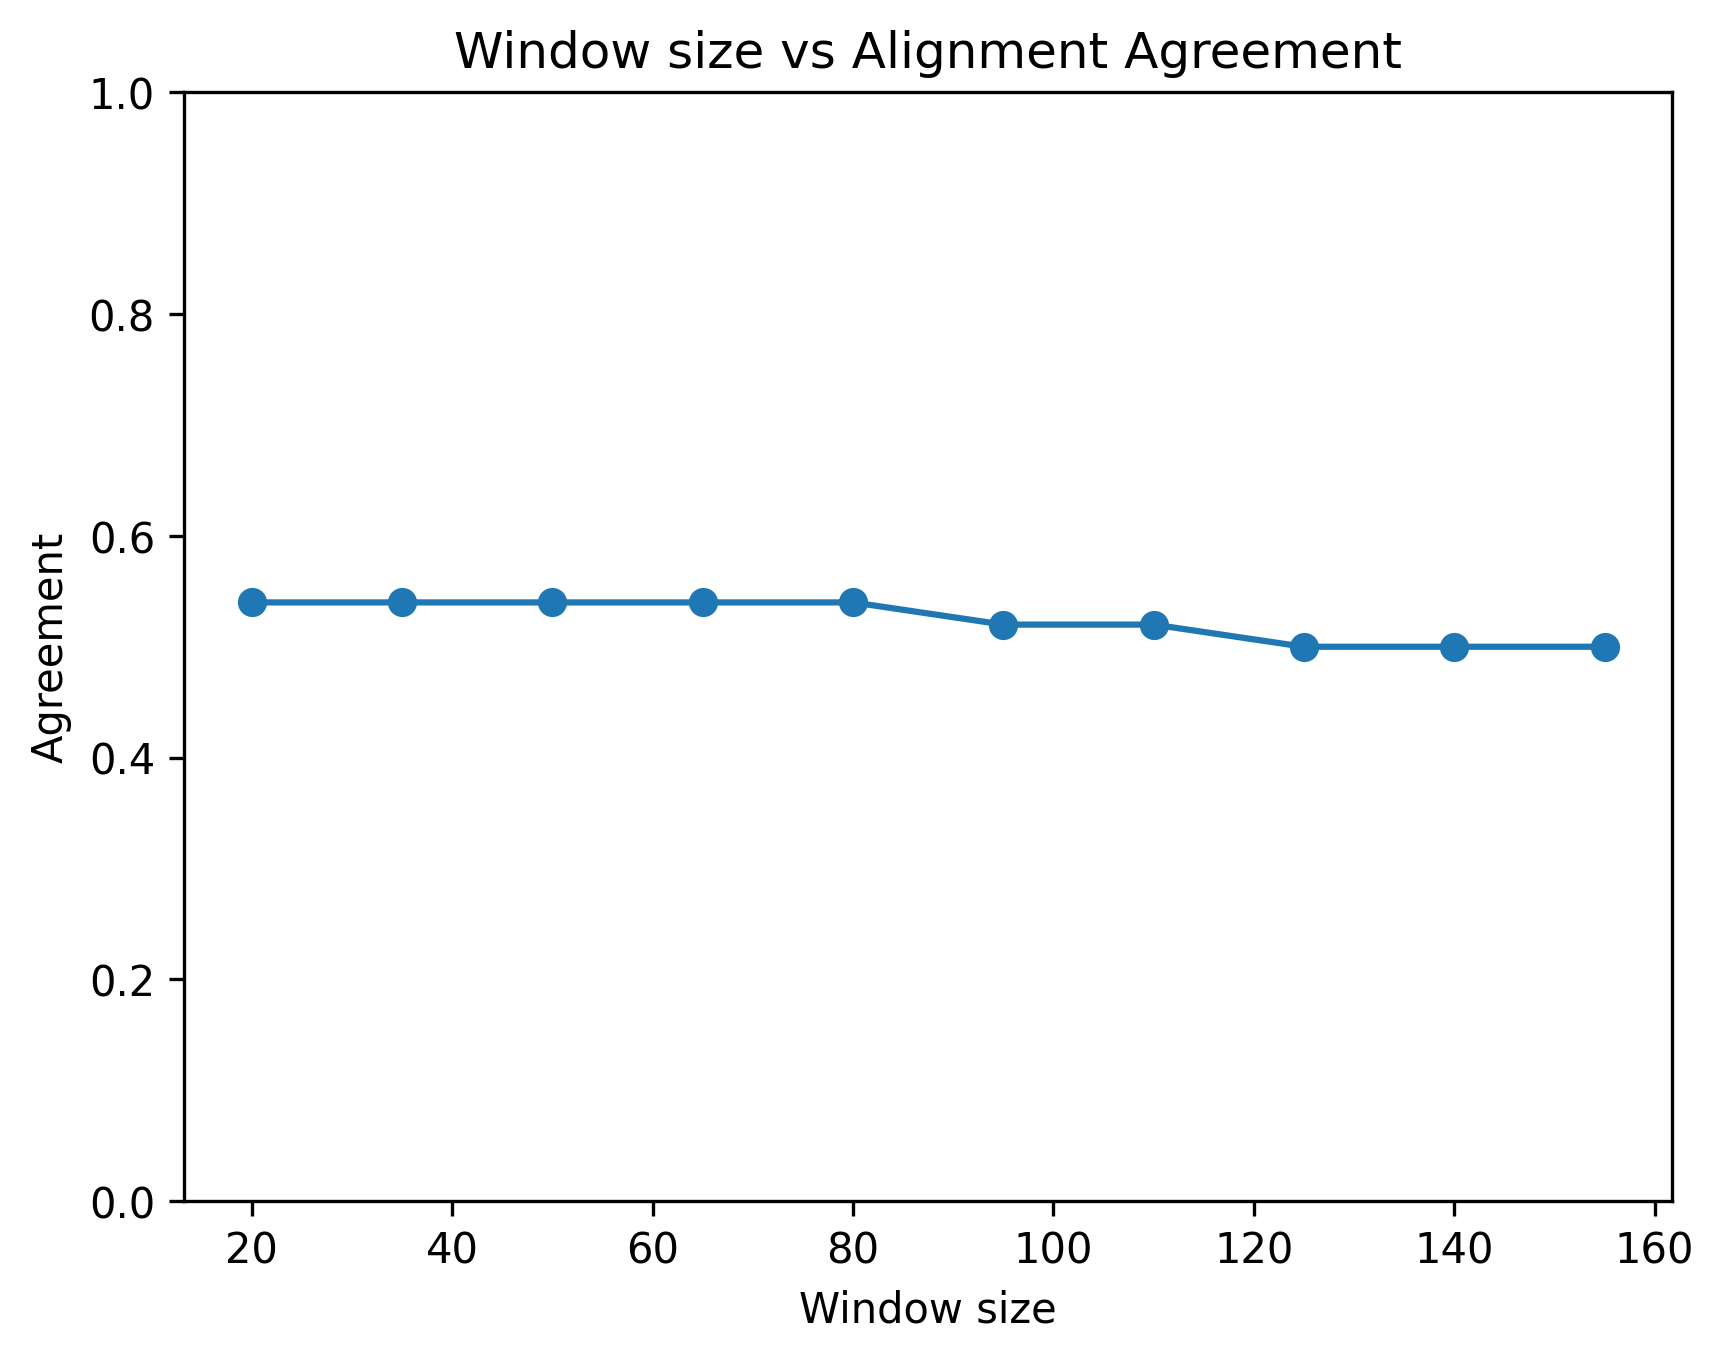
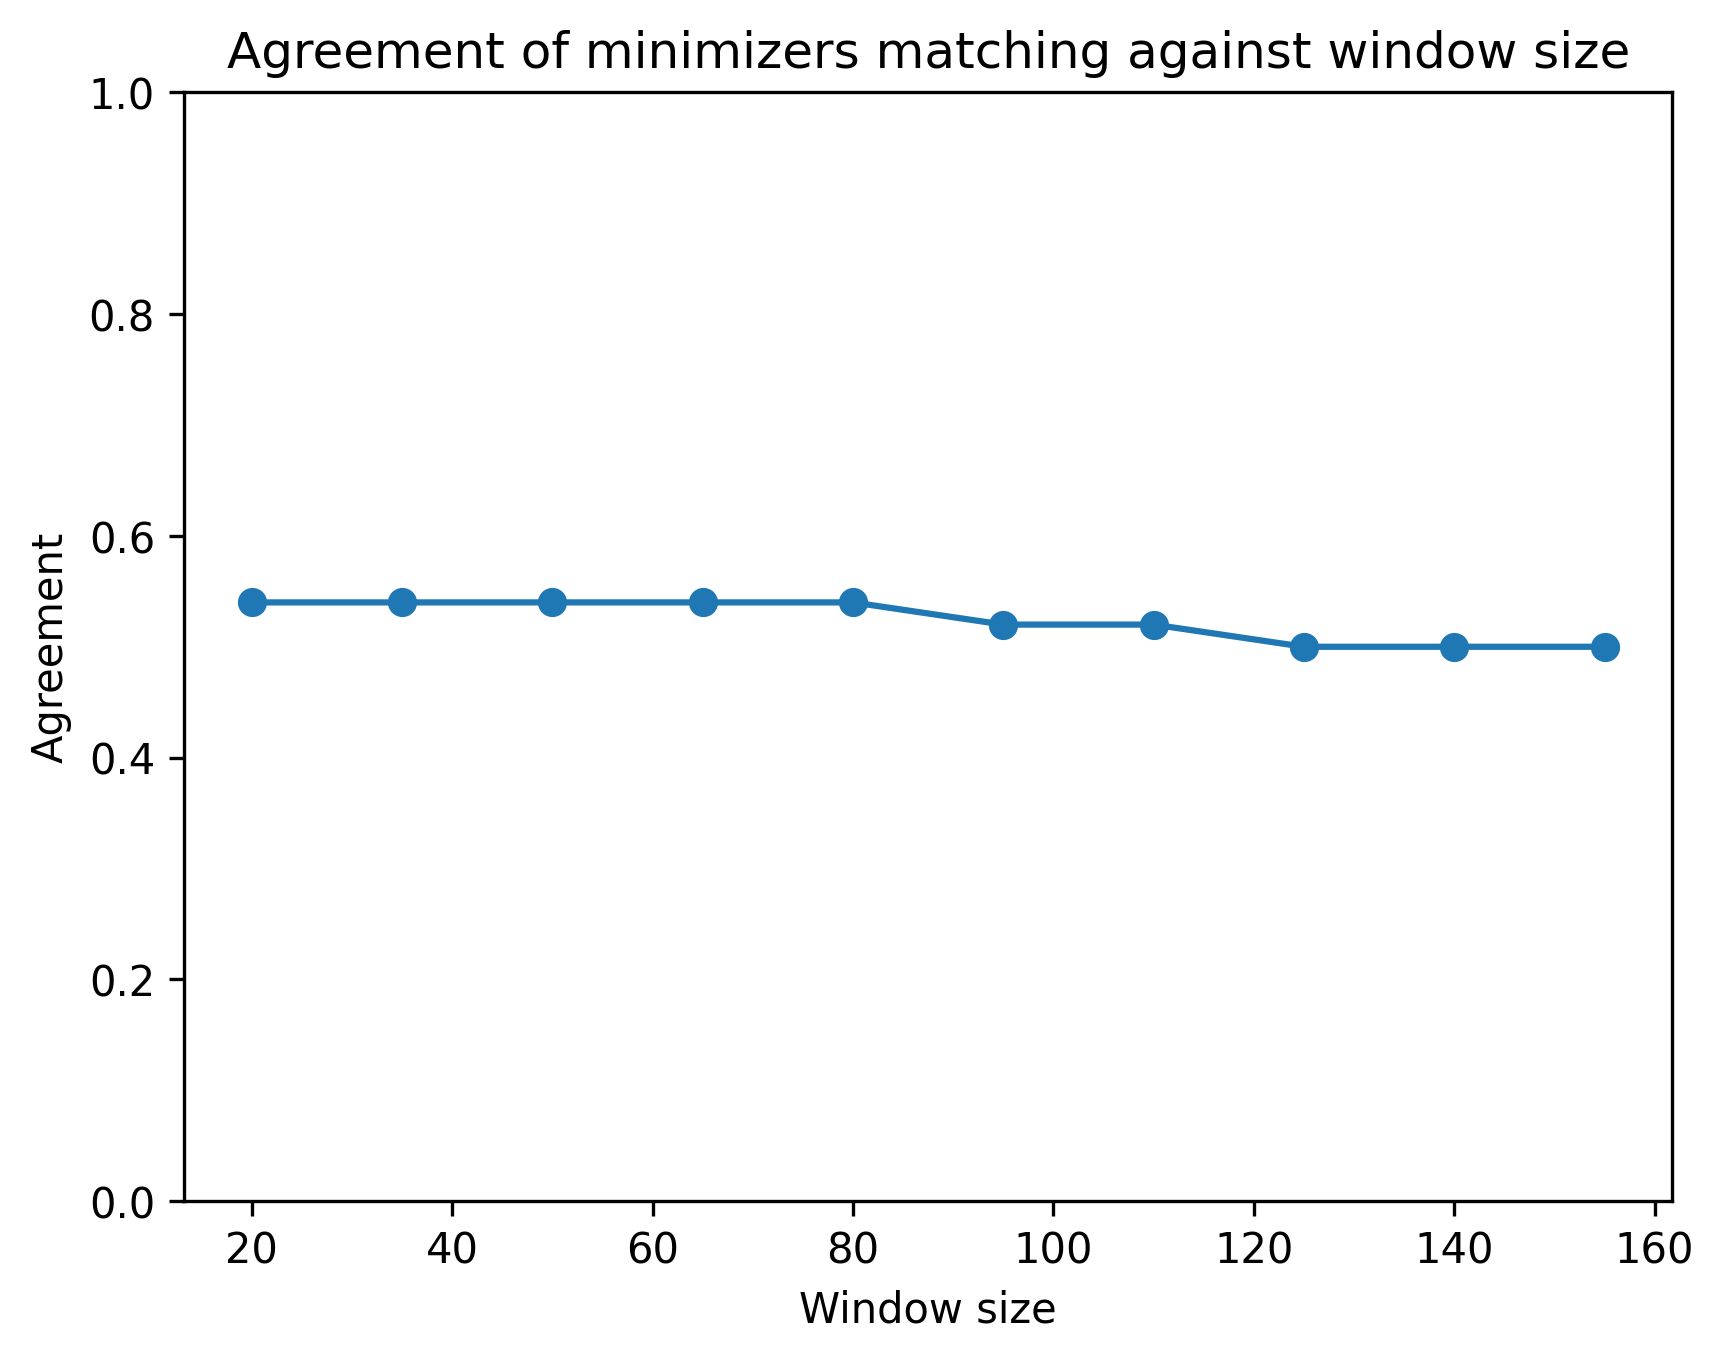
change title

Changed region(s): [[0.123, 0.0309, 0.953, 0.0617]]

diff --git a/microbiome_test.py b/microbiome_test.py
@@ -324,7 +324,7 @@ def run_minimizers(database, queries, query_type, BEST_K=15):
     plt.plot(window_sizes, overall_scores, marker='o')
     plt.xlabel('Window size')
     plt.ylabel('Agreement')
-    plt.title('Window size vs Alignment Agreement')
+    plt.title('Agreement of minimizers matching against window size')
     plt.ylim(0, 1)
     plt.savefig(f"graphs/agreement_against_window_size_{query_type}.png", bbox_inches='tight', dpi=300)
     plt.close()
